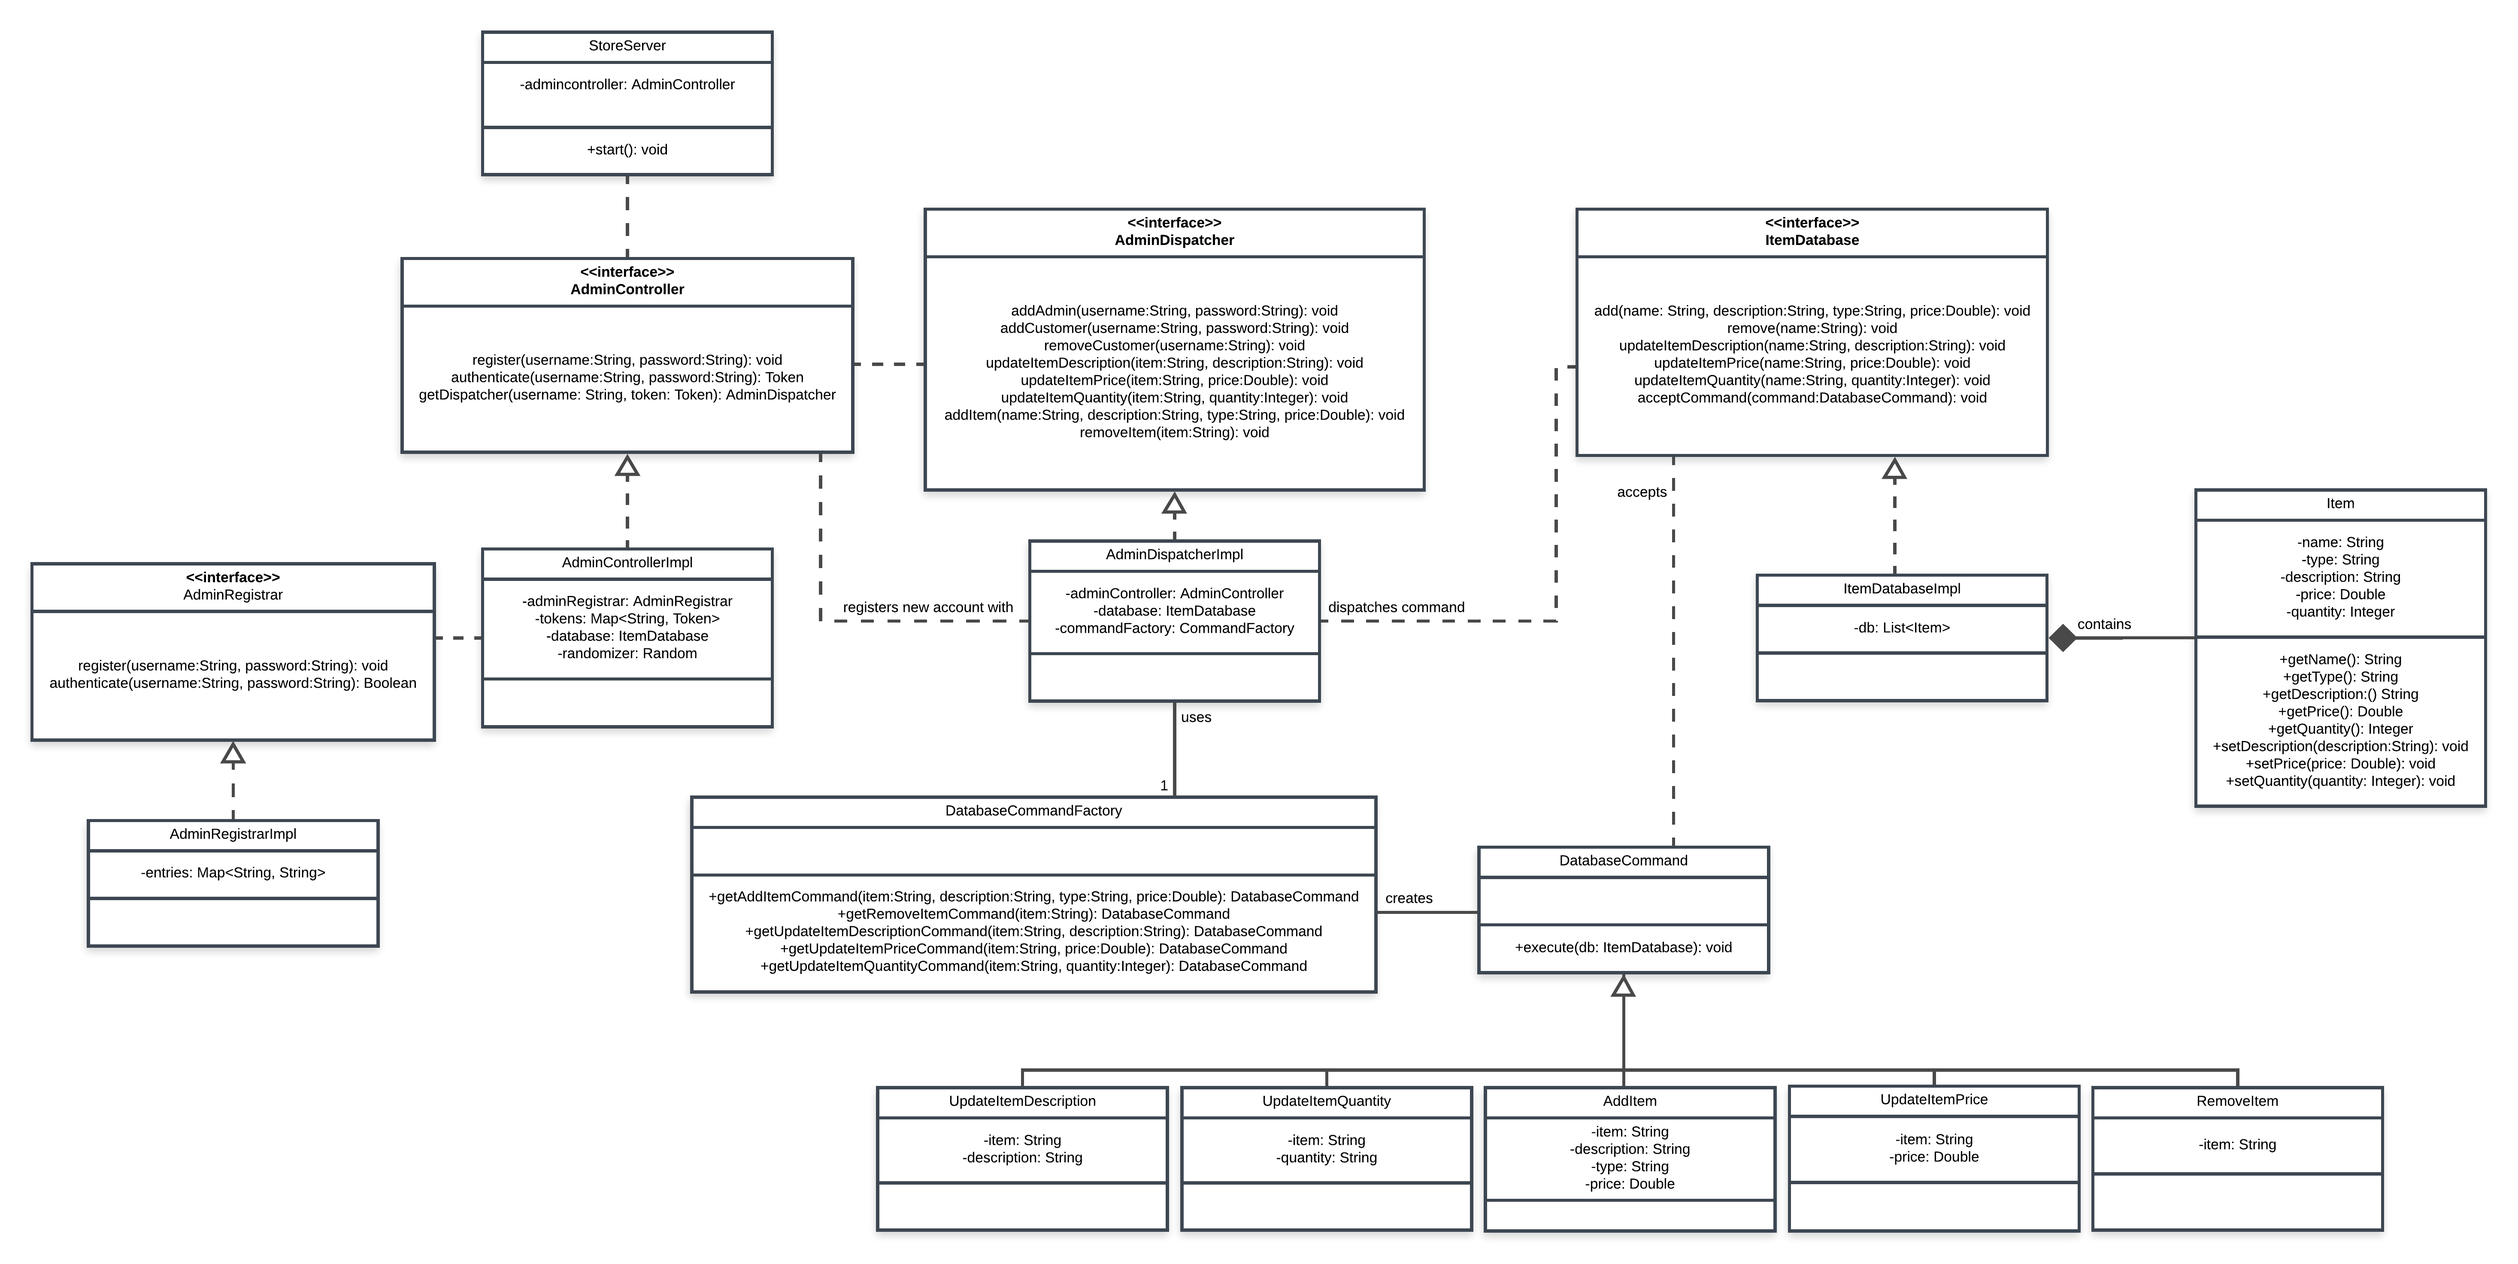
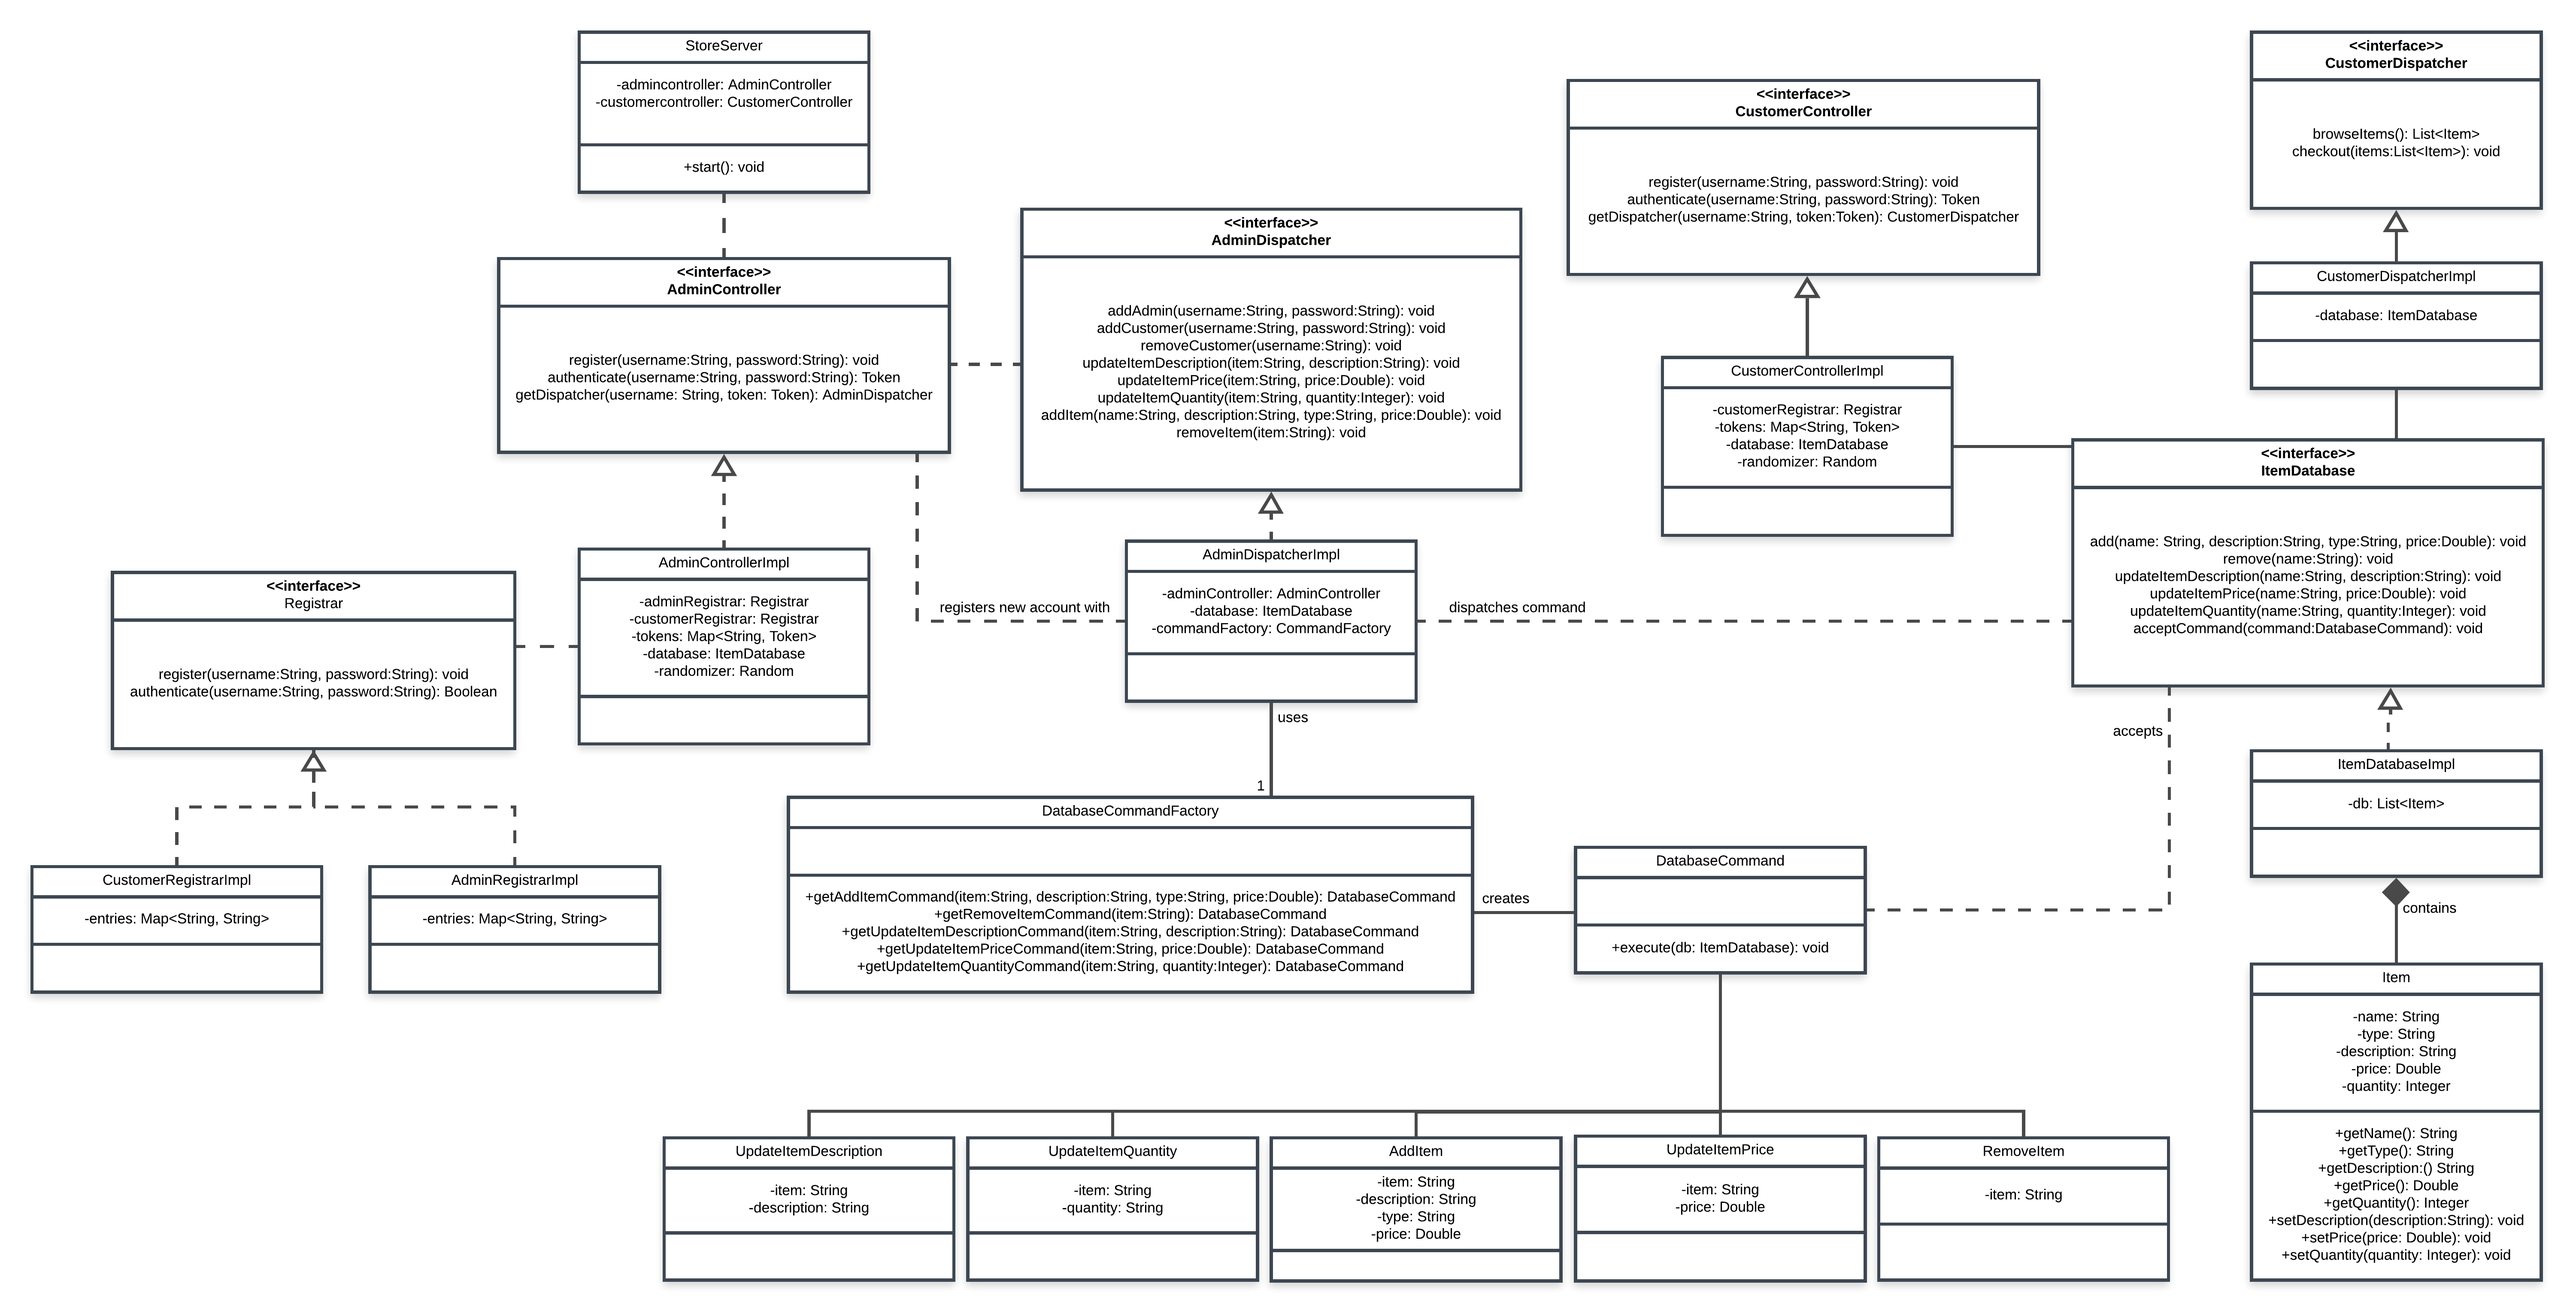
Updated readme and class diagram

diff --git a/README.md b/README.md
@@ -27,10 +27,12 @@ Client programs and the backend communicate through Remote Method Invocation.
 
 Interfaces:
 
-- `AdminController`  - Administrator front-controller entry point, also RMI interface. Handles authentication
-- `AdminRegistrar`   - Administrator account database, also RMI interface. Handles authentication
-- `AdminDispatcher`  - Administrator front-controller that accepts commands once authenticated, also RMI interface
-- `ItemDatabase`     - Defined commands on the item database, also RMI interface. Accepts `DatabaseCommand`s
+- `AdminController`     - Administrator front-controller entry point, also RMI interface. Handles authentication
+- `CustomerController`  - Customer front-controller entry point, also RMI interface. Handles authentication. **New in project 3**
+- `Registrar`           - Account database, also RMI interface. Handles authentication
+- `AdminDispatcher`     - Administrator front-controller that accepts commands once authenticated, also RMI interface
+- `CustomerDispatcher`  - Customer front-controller that accepts commands once authenticated, also RMI interface. **New in project 3**
+- `ItemDatabase`        - Defined commands on the item database, also RMI interface. Accepts `DatabaseCommand`s
 
 Database Command System:
 
@@ -44,12 +46,15 @@ Database Command System:
 
 Implementations:
 
-- `StoreServer`          - Main server backend object, contains exported `AdminController` and `ItemDatabase`
-- `AdminControllerImpl`  - Handles first-contact authentication and tokens
-- `AdminRegistrarImpl`   - Handles authentication
-- `AdminDispatchImpl`    - Dispatches administrator commands to database and registrar
-- `ItemDatabaseImpl`     - Maintains `Item`s
-- `Item`                 - Contains database item attributes
+- `StoreServer`             - Main server backend object, contains exported `AdminController` and `ItemDatabase`
+- `AdminControllerImpl`     - Handles first-contact authentication and tokens
+- `CustomerControllerImpl`  - Handles first-contact authentication and tokens. **New in project 3**
+- `AdminRegistrarImpl`      - Handles authentication of administrator accounts
+- `CustomerRegistrarImpl`   - Handles authentication of customer accounts. **New in project 3**
+- `AdminDispatcherImpl`     - Dispatches administrator commands to database and registrar
+- `CustomerDispatcherImpl`  - Dispatches customer commands to database and registrar. **New in project 3**
+- `ItemDatabaseImpl`        - Maintains `Item`s
+- `Item`                    - Contains database item attributes
 
 ## Directory Structure Reference
 
@@ -68,8 +73,9 @@ src/Makefile         - builds StoreServer.jar
 These files contain initial values:
 
 ```
-src/server/adminaccounts.csv   - administrator accounts created when server starts
-src/database/itemdatabase.csv  - database items created when server starts
+src/server/adminaccounts.csv     - administrator accounts created when server starts
+src/server/customeraccounts.csv  - customer accounts created when server starts
+src/database/itemdatabase.csv    - database items created when server starts
 ```
 
 ## Building
@@ -110,10 +116,13 @@ Administrator client programs:
 - `client.admin.UpdateItemDescription`        - Update item description
 - `client.admin.UpdateItemPrice`              - Update item price
 - `client.admin.UpdateItemQuantity`           - Update item quantity
+- `client.admin.RegisterCustomerAccount`      - Register new customer account. **New in project 3**
+- `client.admin.RemoveCustomerAccount`        - Remove existing customer account. **New in project 3**
 
 Customer client programs:
 
-- TODO FOR PROJECT 3
+- `client.customer.RegisterAccount`   - Register new customer account. **New in project 3**
+- `client.customer.BrowseAndCheckout`  - Add items to cart and checkout. **New in project 3**
 
 Server backend program:
 
@@ -175,4 +184,119 @@ Updating item price
 Item name: Cake
 New price: 8.50
 Item Cake price updated
+```
+
+Register new customer account
+
+```
+[bddean@in-csci-rrpc02 src]$ java -cp StoreServer.jar client.customer.RegisterAccount
+Creating new customer account
+Username: brady
+Password: password
+Account brady created
+```
+
+Browse and checkout items
+
+```
+[bddean@in-csci-rrpc02 src]$ java -cp StoreServer.jar client.customer.BrowseAndCheckout
+Login to existing customer account
+Username: brady
+Password: password
+
+Available Items
+ID: 0
+Name: Bread
+Price: $2.50
+Type: Dry Grocery
+Description: Loaf of bread
+Available quantity: 10
+
+ID: 1
+Name: Cake
+Price: $8.50
+Type: Bakery
+Description: Classic birthday dessert
+Available quantity: 10
+
+ID: 2
+Name: Hot Dog
+Price: $1.00
+Type: Chilled
+Description: Mystery meat tube
+Available quantity: 20
+
+Add items to your cart by specifying the ID followed by the quantity requested
+Eg: 0 2
+Enter "cart" to see items in your cart
+Enter "checkout" when you are ready to checkout
+0 2
+2 10
+cart
+2 Bread
+10 Hot Dog
+Total: $3.50
+checkout
+Cart was successfully checked out
+```
+
+Now inventory has been reduced
+
+```
+[bddean@in-csci-rrpc02 src]$ java -cp StoreServer.jar client.customer.BrowseAndCheckout
+Login to existing customer account
+Username: brady
+Password: password
+
+Available Items
+ID: 0
+Name: Bread
+Price: $2.50
+Type: Dry Grocery
+Description: Loaf of bread
+Available quantity: 8
+
+ID: 1
+Name: Cake
+Price: $8.50
+Type: Bakery
+Description: Classic birthday dessert
+Available quantity: 10
+
+ID: 2
+Name: Hot Dog
+Price: $1.00
+Type: Chilled
+Description: Mystery meat tube
+Available quantity: 10
+
+Add items to your cart by specifying the ID followed by the quantity requested
+Eg: 0 2
+Enter "cart" to see items in your cart
+Enter "checkout" when you are ready to checkout
+checkout
+Cart was successfully checked out
+```
+
+Remove customer account `brady`
+
+```
+[bddean@in-csci-rrpc02 src]$ java -cp StoreServer.jar client.admin.RemoveCustomerAccount
+Login to existing administrator account
+Username: brady
+Password: password
+Removing customer account
+Customer username: brady
+Customer account brady removed
+```
+
+Customer 'brady' can no longer log in
+
+```
+[bddean@in-csci-rrpc02 src]$ java -cp StoreServer.jar client.customer.BrowseAndCheckout
+Login to existing customer account
+Username: brady
+Password: password
+Exception: The username brady does not exist
+Could not authenticate
 ```
